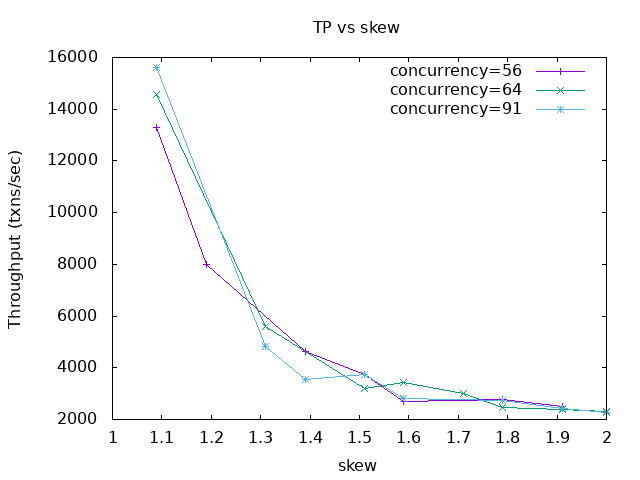
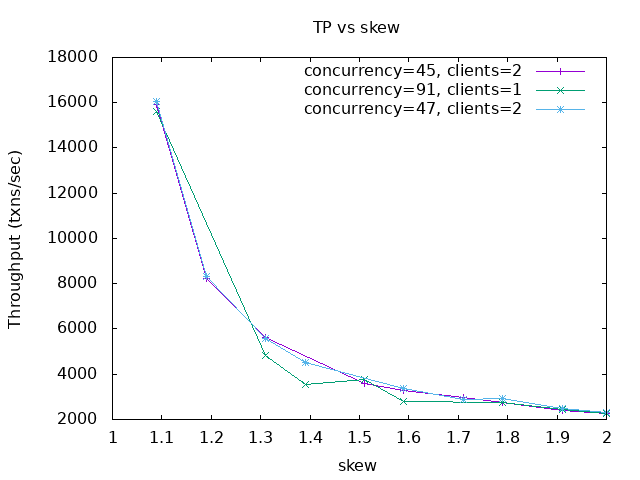
latest

diff --git a/experiments/driver.py b/experiments/driver.py
@@ -14,7 +14,7 @@ CONFIG_LIST = [
 	# "single_key_87.ini",
 	# "single_key_89.ini",
 	# "single_key_90.ini",
-	"single_key_91.ini",
+	# "single_key_91.ini",
 	# "single_key_94.ini",
 	# "single_key_96.ini",
 	# "single_key_98.ini",
@@ -22,11 +22,12 @@ CONFIG_LIST = [
 	# "single_key_102.ini",
 	# "single_key_108.ini",
 	# "single_key_124.ini",
-	"single_key_56.ini",
-	"single_key_64.ini",
+	# "single_key_56.ini",
+	# "single_key_64.ini",
 	# "single_key_72.ini",
 	# "single_key_80.ini",
 	# "single_key_96.ini",
+	"single_key_47_double.ini",
 	]
 
 
